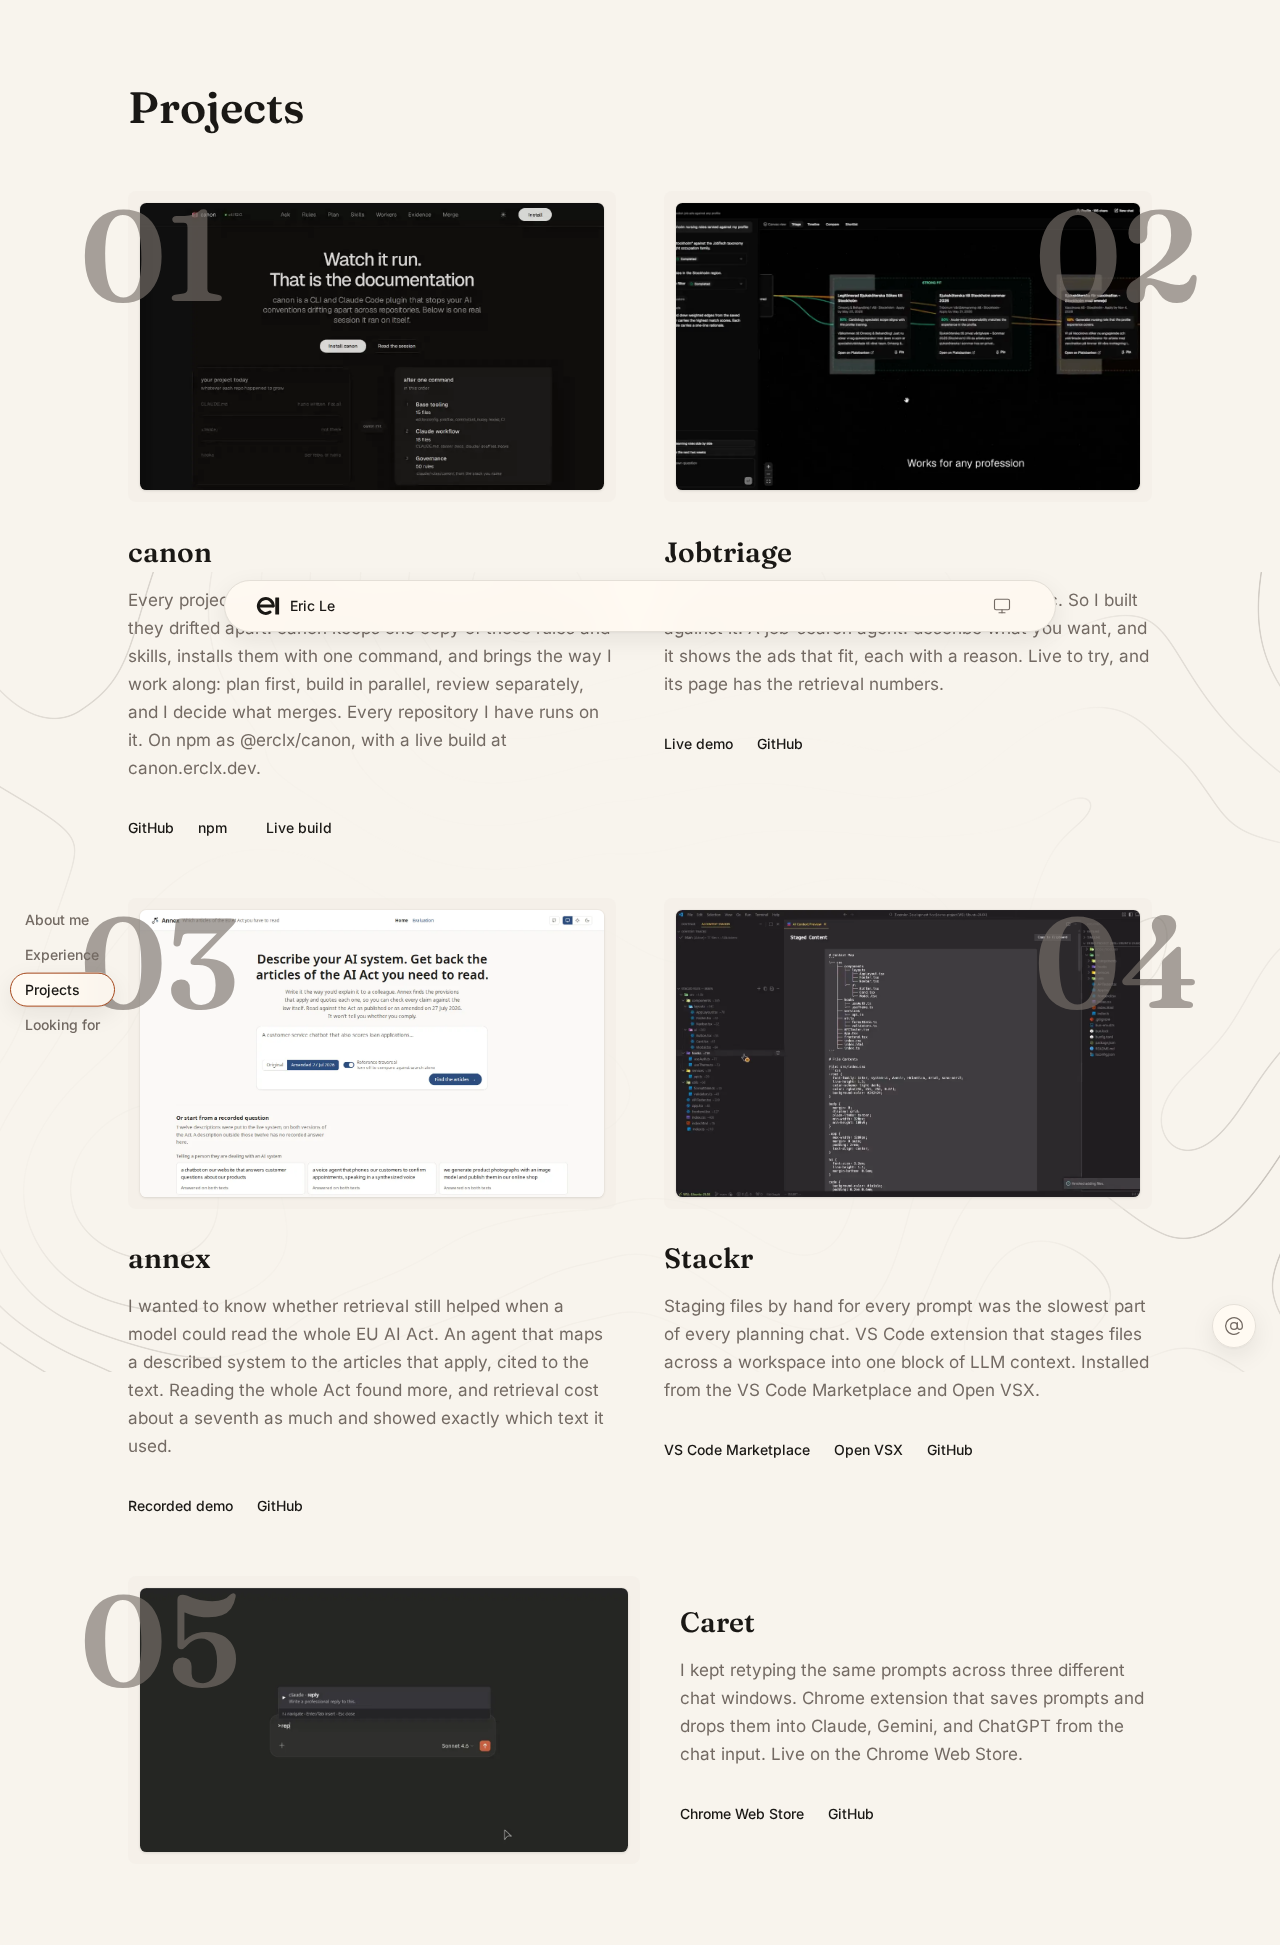
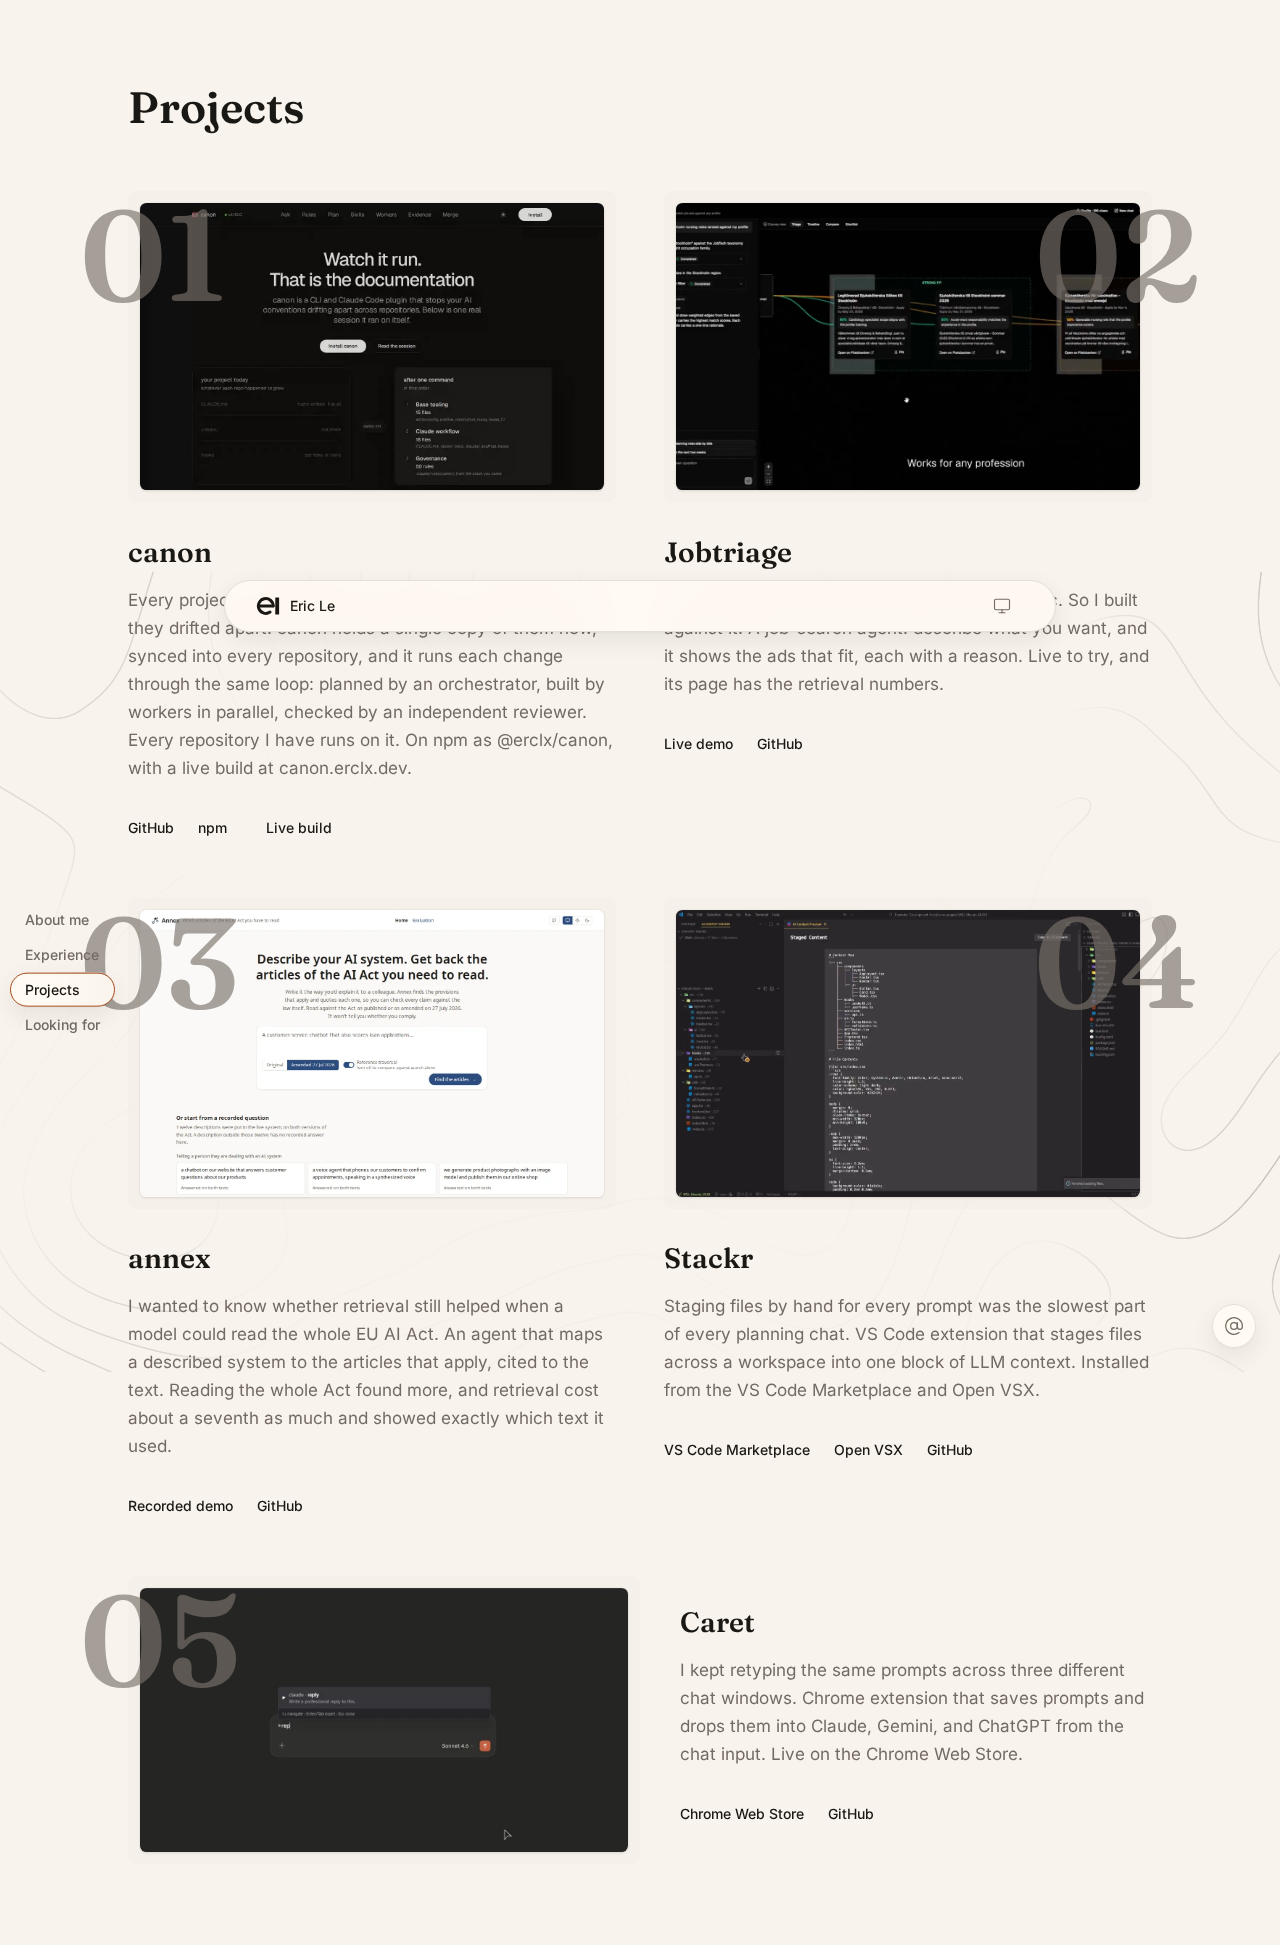
feat(copy): port the canon card and claim at career dacd314 (#149)
## Summary

Port the canon card sentence and the canon route's claim and description from career `home.md` and `canon.md` at `dacd314`, so the site describes canon by the problem it solves.

## Key Changes

- Replace the canon card's middle sentence in `src/components/site/projects/projects.astro` with the source's `holds a single copy of them now` sentence.
- Drop `, and I merge` from the claim paragraph and from the `description=` prop in `src/pages/canon.astro`.
- Point the two assertions in `src/test/rendered-copy.test.ts` at the new card sentence and the new `/canon` description.

Changed region(s): [[0.0938, 0.3085, 0.4688, 0.401]]

diff --git a/src/test/rendered-copy.test.ts b/src/test/rendered-copy.test.ts
@@ -466,7 +466,7 @@ describe('the projects section', () => {
 
   it('renders the description the source carries on the canon card', () => {
     expect(card(0)).toContain(
-      'plan first, build in parallel, review separately, and I decide what merges',
+      'planned by an orchestrator, built by workers in parallel, checked by an independent reviewer',
     )
   })
 
@@ -565,7 +565,7 @@ describe('a case study', () => {
   it.each([
     [
       '/canon',
-      'How I build with AI coding agents, packaged for any repository: one session plans, others build in parallel, a separate session reviews, and I merge.',
+      'How I build with AI coding agents, packaged for any repository: one session plans, others build in parallel, and a separate session reviews.',
     ],
     [
       '/jobtriage',
